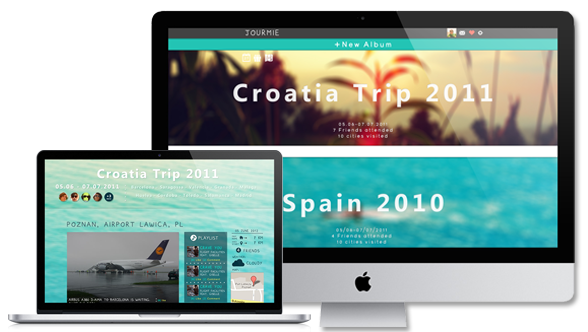
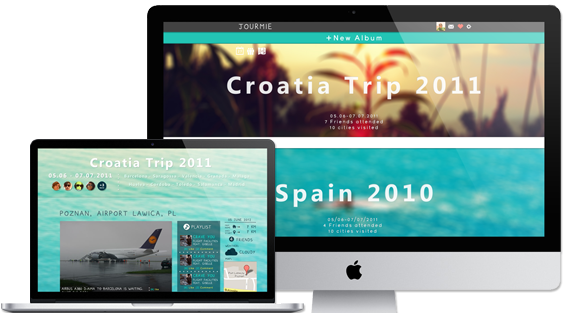
layout

diff --git a/app/assets/stylesheets/layout.css.scss b/app/assets/stylesheets/layout.css.scss
@@ -1,10 +1,6 @@
 @import "bootstrap_and_overrides";
 @import "variables";
 
-legend {
-  margin-bottom: 0;
-}
-
 @font-face {
   font-family: "Young";
   font-weight: normal;
@@ -13,12 +9,15 @@ legend {
 }
 
 body {
+  color: #fff;
   font-family: "Young", "Arial", sans-serif;
-}
-
-input[type=text], input[type=password], input[type=email], select {
-  border: 0 !important;
-  &:focus { color: #fff; }
+  background: transparent url("home_background.png") no-repeat;
+  background-size: cover;
+  background-attachment: fixed;
+  &.home {
+    background-image: none;
+    color: #333;
+  }
 }
 
 h1,h2,h3,h4 {
@@ -35,10 +34,19 @@ h3 {
   line-height: 18px;
 }
 
-.btn-facebook, .btn-twitter {
-  font-size: 11px;
-  padding: 2px;
-  margin-left: 3px;
+.transparent-wrapper {
+  padding: 15px 0;
+  background: rgba(0,0,0,.35);
+  width: 100%;
+  h1,h2,h3,h4,h5 {
+    color: #fff;
+    font-weight: normal;
+    line-height: 12px;
+    margin-bottom: 0;
+  }
+  p {
+    color: #fff;
+  }
 }
 
 #navigation-top {
@@ -88,4 +96,29 @@ footer {
       background: $jourmieRed !important;
     }
   }
+}
+
+.btn-twitter, .btn-facebook {
+  display: inline-block;
+  width: 157px;
+  height: 42px;
+  padding: 0;
+  background: transparent no-repeat center;
+}
+
+.btn-twitter {
+  background-image: url('twitter_button.png');
+  &:active {
+    background-image: url('twitter_button_pushed.png');
+  }
+}
+.btn-facebook {
+  background-image: url('facebook_button.png');
+  &:active {
+    background-image: url('facebook_button_pushed.png');
+  }
+}
+
+.margin-left-huge {
+  margin-left: 50px;
 }

diff --git a/app/assets/stylesheets/bootstrap_and_overrides.css.scss b/app/assets/stylesheets/bootstrap_and_overrides.css.scss
@@ -9,6 +9,11 @@ $navbarHeight: 40px;
   background: #424242;
 }
 
+legend {
+  border: 0;
+  margin-bottom: 10px;
+}
+
 .navbar {
   .dropdown-menu {
     background: #424242;
@@ -16,4 +21,24 @@ $navbarHeight: 40px;
   .dropdown-menu::after {
     border-bottom-color: #424242 !important;
   }
+}
+
+input[type=text], input[type=password], input[type=email], select {
+  border: 0 !important;
+  color: #fff;
+  height: 35px;
+  background: $jourmieMiddleGray;
+  opacity: 0.8;
+  box-shadow: inset 3px 3px 2px rgba(0,0,0,.5) !important;
+  margin: 0;
+  -webkit-box-sizing: border-box;
+  -moz-box-sizing: border-box;
+  box-sizing: border-box;
+  width: 100%;
+}
+
+.form-actions {
+  background: transparent;
+  border: 0;
+  border-radius: 5px;
 }

diff --git a/app/assets/stylesheets/static_sites.css.scss b/app/assets/stylesheets/static_sites.css.scss
@@ -12,10 +12,6 @@
     line-height: 12px;
     margin-bottom: 0;
   }
-  legend {
-    border: 0;
-    margin-bottom: 10px;
-  }
   position: relative;
 }
 
@@ -38,7 +34,7 @@
   width: 588px;
   height: 332px;
   position: absolute;
-  bottom: -2px;
+  bottom: -10px;
 }
 
 #home-thumbnails {
@@ -76,5 +72,14 @@
     &.shop {
       background-image: url('shop_mini.png');
     }
+  }
+}
+
+#signin-connect-buttons { 
+  margin-top: 40px;
+  text-align: center;
+  a {
+    width: 100%;
+    margin-top: 20px;
   }
 }

diff --git a/app/assets/stylesheets/users.css.scss b/app/assets/stylesheets/users.css.scss
@@ -3,13 +3,6 @@
 .signup-form {
   input[type=text], input[type=email], input[type=password] {
     width: 100%;
-    -webkit-box-sizing: border-box;
-    -moz-box-sizing: border-box;
-    box-sizing: border-box;
-    height: 35px;
-    background: $jourmieMiddleGray;
-    box-shadow: inset 3px 3px 2px rgba(0,0,0,.5);
-    margin: 0;
   }
   .control-group {
     margin: 5px 0;
